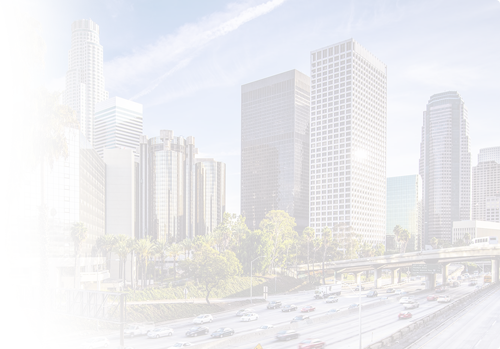
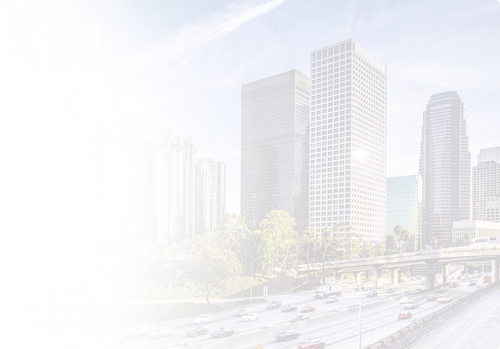
:bug: Solving mobile inputs problem

Changed region(s): [[0.18, 0.2865, 0.42, 0.8883], [0.18, 0.0, 0.27, 0.1719]]

diff --git a/src/components/SearchComponent.vue b/src/components/SearchComponent.vue
@@ -100,6 +100,7 @@
             </div>
           </div>
         </div>
+        <div class="clearfix"></div>
         <div class="col-md-12 text-right mb-5 mt-5">
           <div class="row">
             <div class="col-md-6">
@@ -318,6 +319,10 @@ export default class SearchComponent extends Vue {
   padding: 20px;
   border-radius: 8px;
   box-shadow: 0 2px 4px rgba(0, 0, 0, 0.1);
+}
+
+.travel_search_engine .container {
+  overflow: hidden;
 }
 
 .title-icon {

diff --git a/src/assets/css/style.css b/src/assets/css/style.css
@@ -898,12 +898,12 @@ ul.children li:hover a {
 .kode_write_detail:before {
     position: absolute;
     content: "";
-    top: 0px;
+    top: 0;
     right: -15px;
-    bottom: 0px;
-    background-size: cover;
+    bottom: 0;
+    background-size: auto;
     background-position: right top;
-    width: 70%;
+    width: 120%;
     background-repeat: no-repeat;
 }
 
